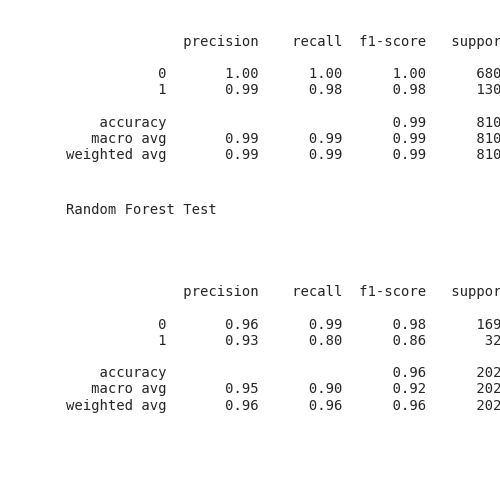
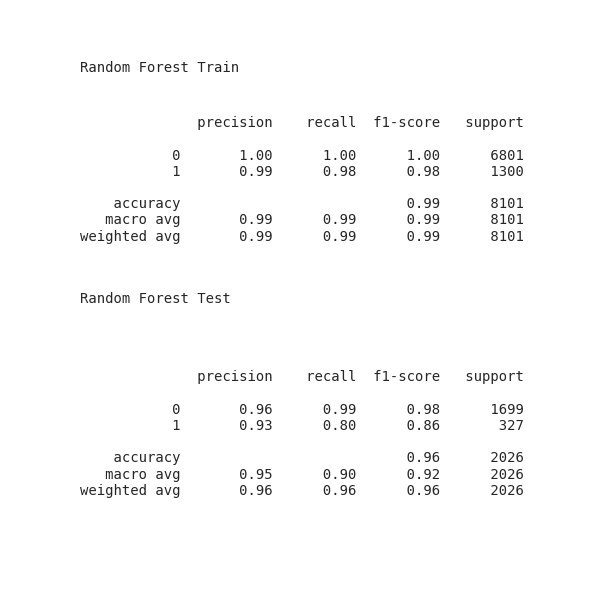
fix: make class report more readable and fix reversed train & test from notebook

diff --git a/churn_library.py b/churn_library.py
@@ -201,14 +201,14 @@ def classification_report_image(y_train,
    #create figure to save
       # fig = plt.figure(figsize=(20,10)) 
 
-   fig = plt.rc('figure', figsize=(5, 5))
-   plt.text(0.01, 1.25, str('Random Forest Train'), {'fontsize': 10}, fontproperties = 'monospace')
+   plt.rc('figure', figsize=(6, 6))
+   plt.text(0.01, 1.0, str('Random Forest Train'), {'fontsize': 10}, fontproperties = 'monospace')
+   plt.text(0.01, 0.6, str(classification_report(y_train, y_train_preds_rf)), {'fontsize': 10}, fontproperties = 'monospace') # approach improved by OP -> monospace!
+   plt.text(0.01, 0.5, str('Random Forest Test'), {'fontsize': 10}, fontproperties = 'monospace')
    plt.text(0.01, 0.05, str(classification_report(y_test, y_test_preds_rf)), {'fontsize': 10}, fontproperties = 'monospace') # approach improved by OP -> monospace!
-   plt.text(0.01, 0.6, str('Random Forest Test'), {'fontsize': 10}, fontproperties = 'monospace')
-   plt.text(0.01, 0.7, str(classification_report(y_train, y_train_preds_rf)), {'fontsize': 10}, fontproperties = 'monospace') # approach improved by OP -> monospace!
-   plt.axis('off');
+   plt.axis('off')
    plt.savefig('images/random_forest_classification_report.png')
-   plt.close(fig)
+   plt.close()
 
 
 
